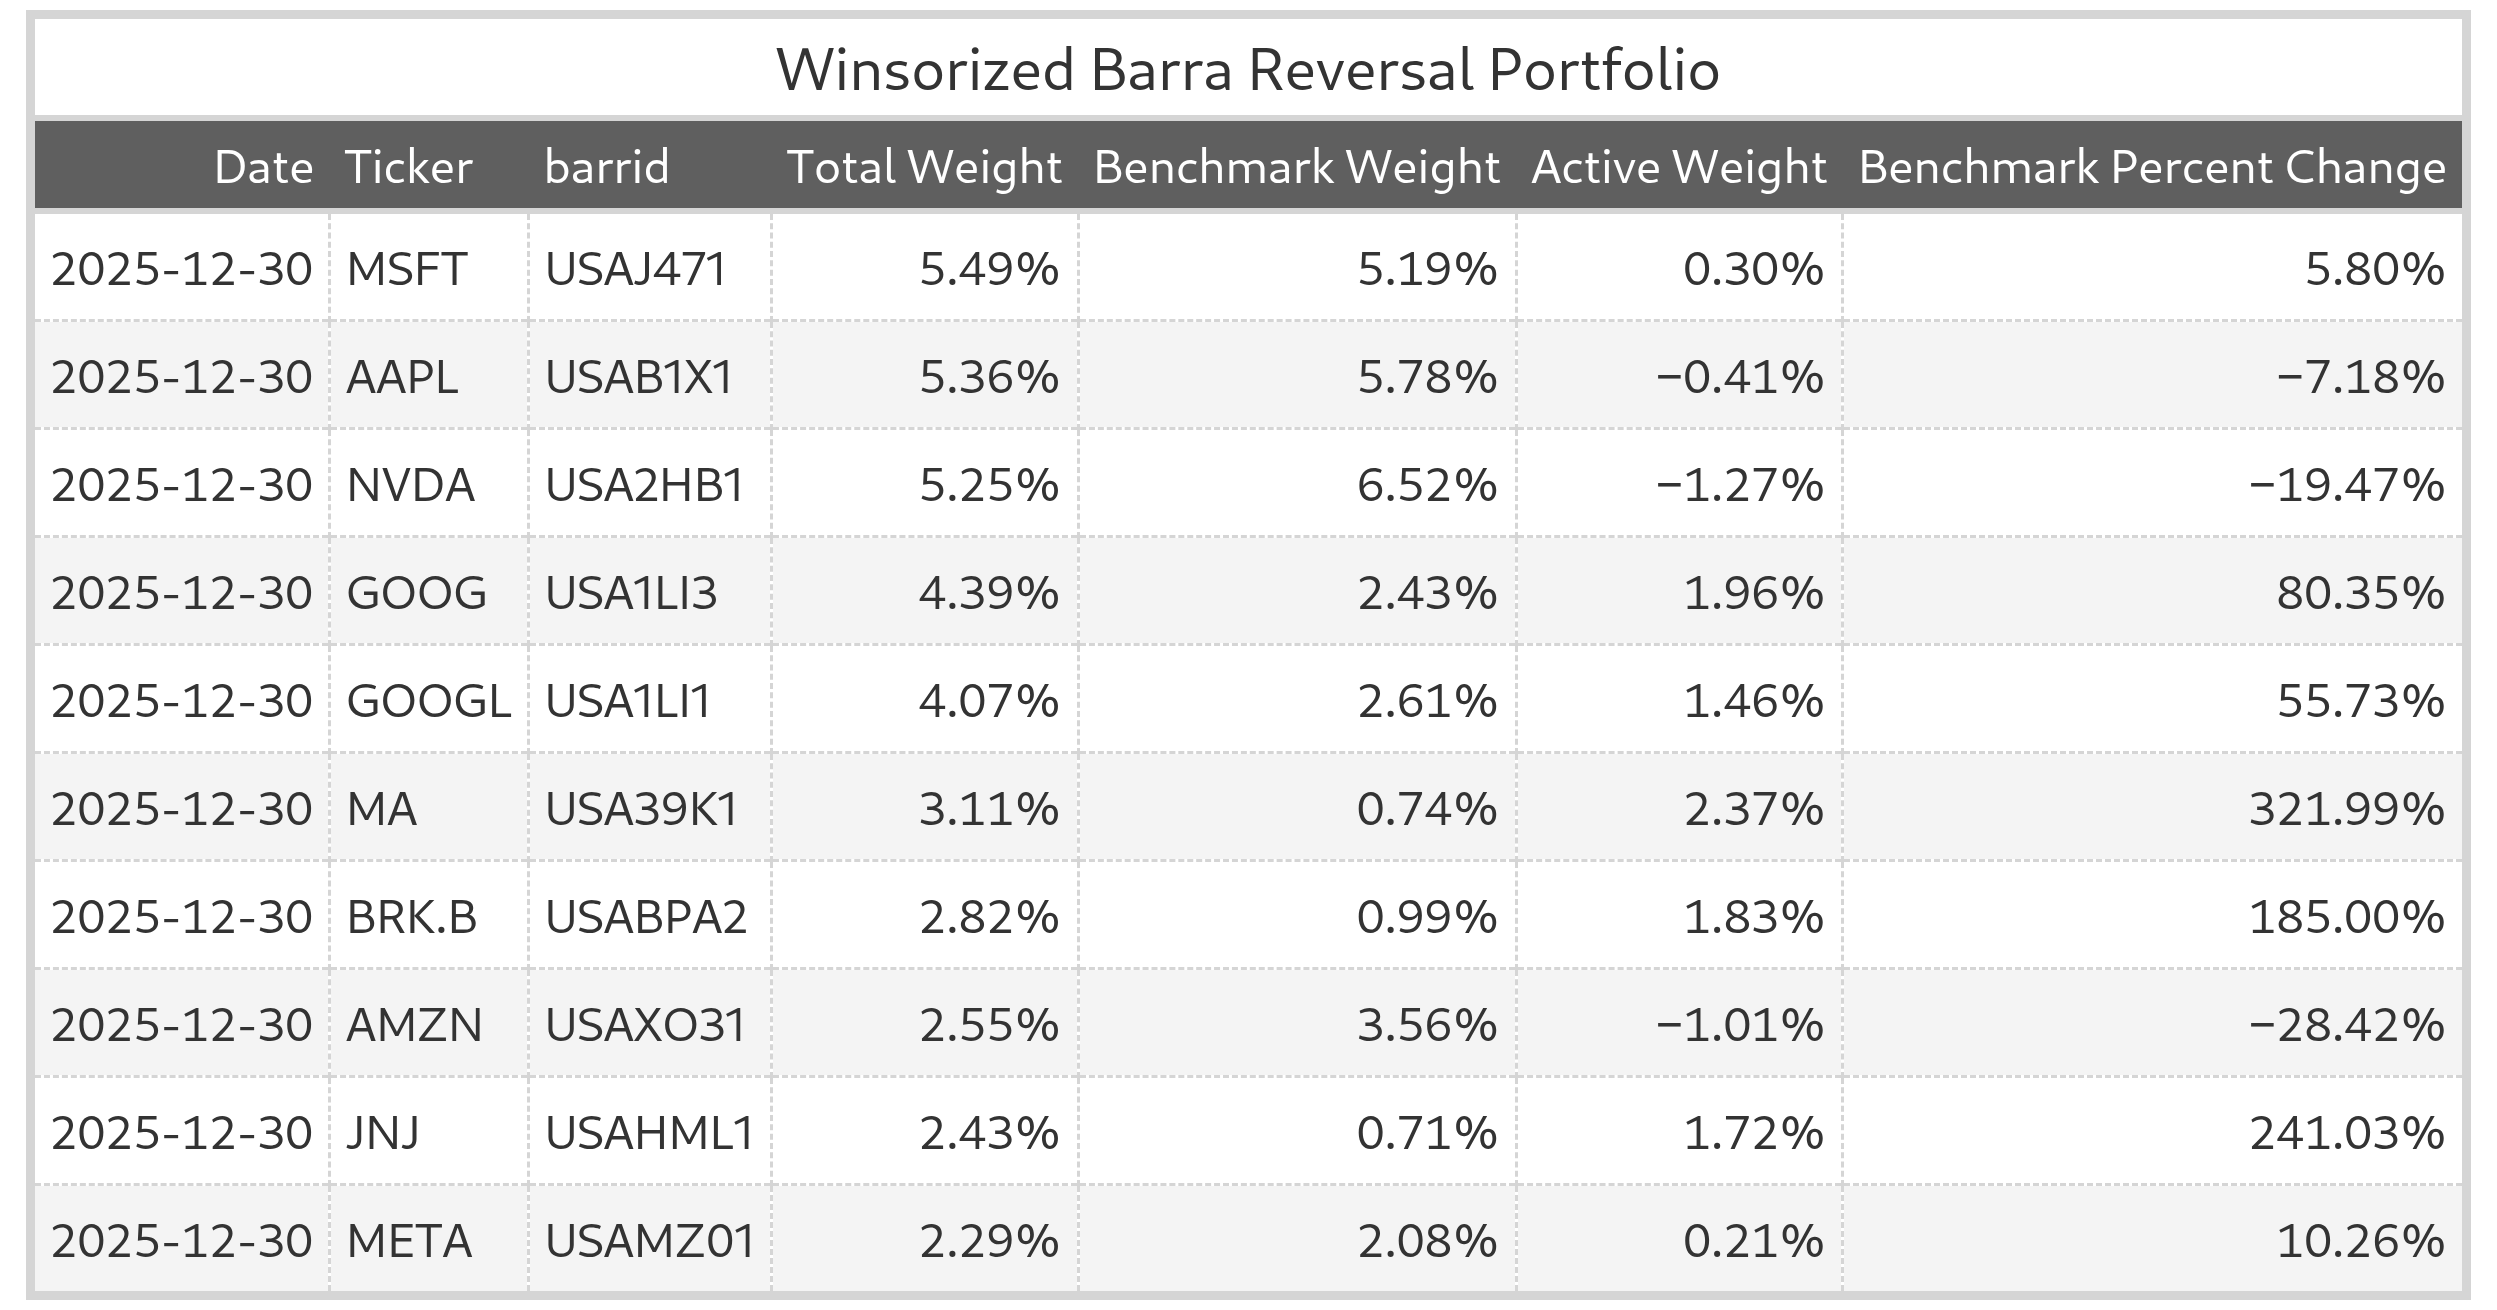
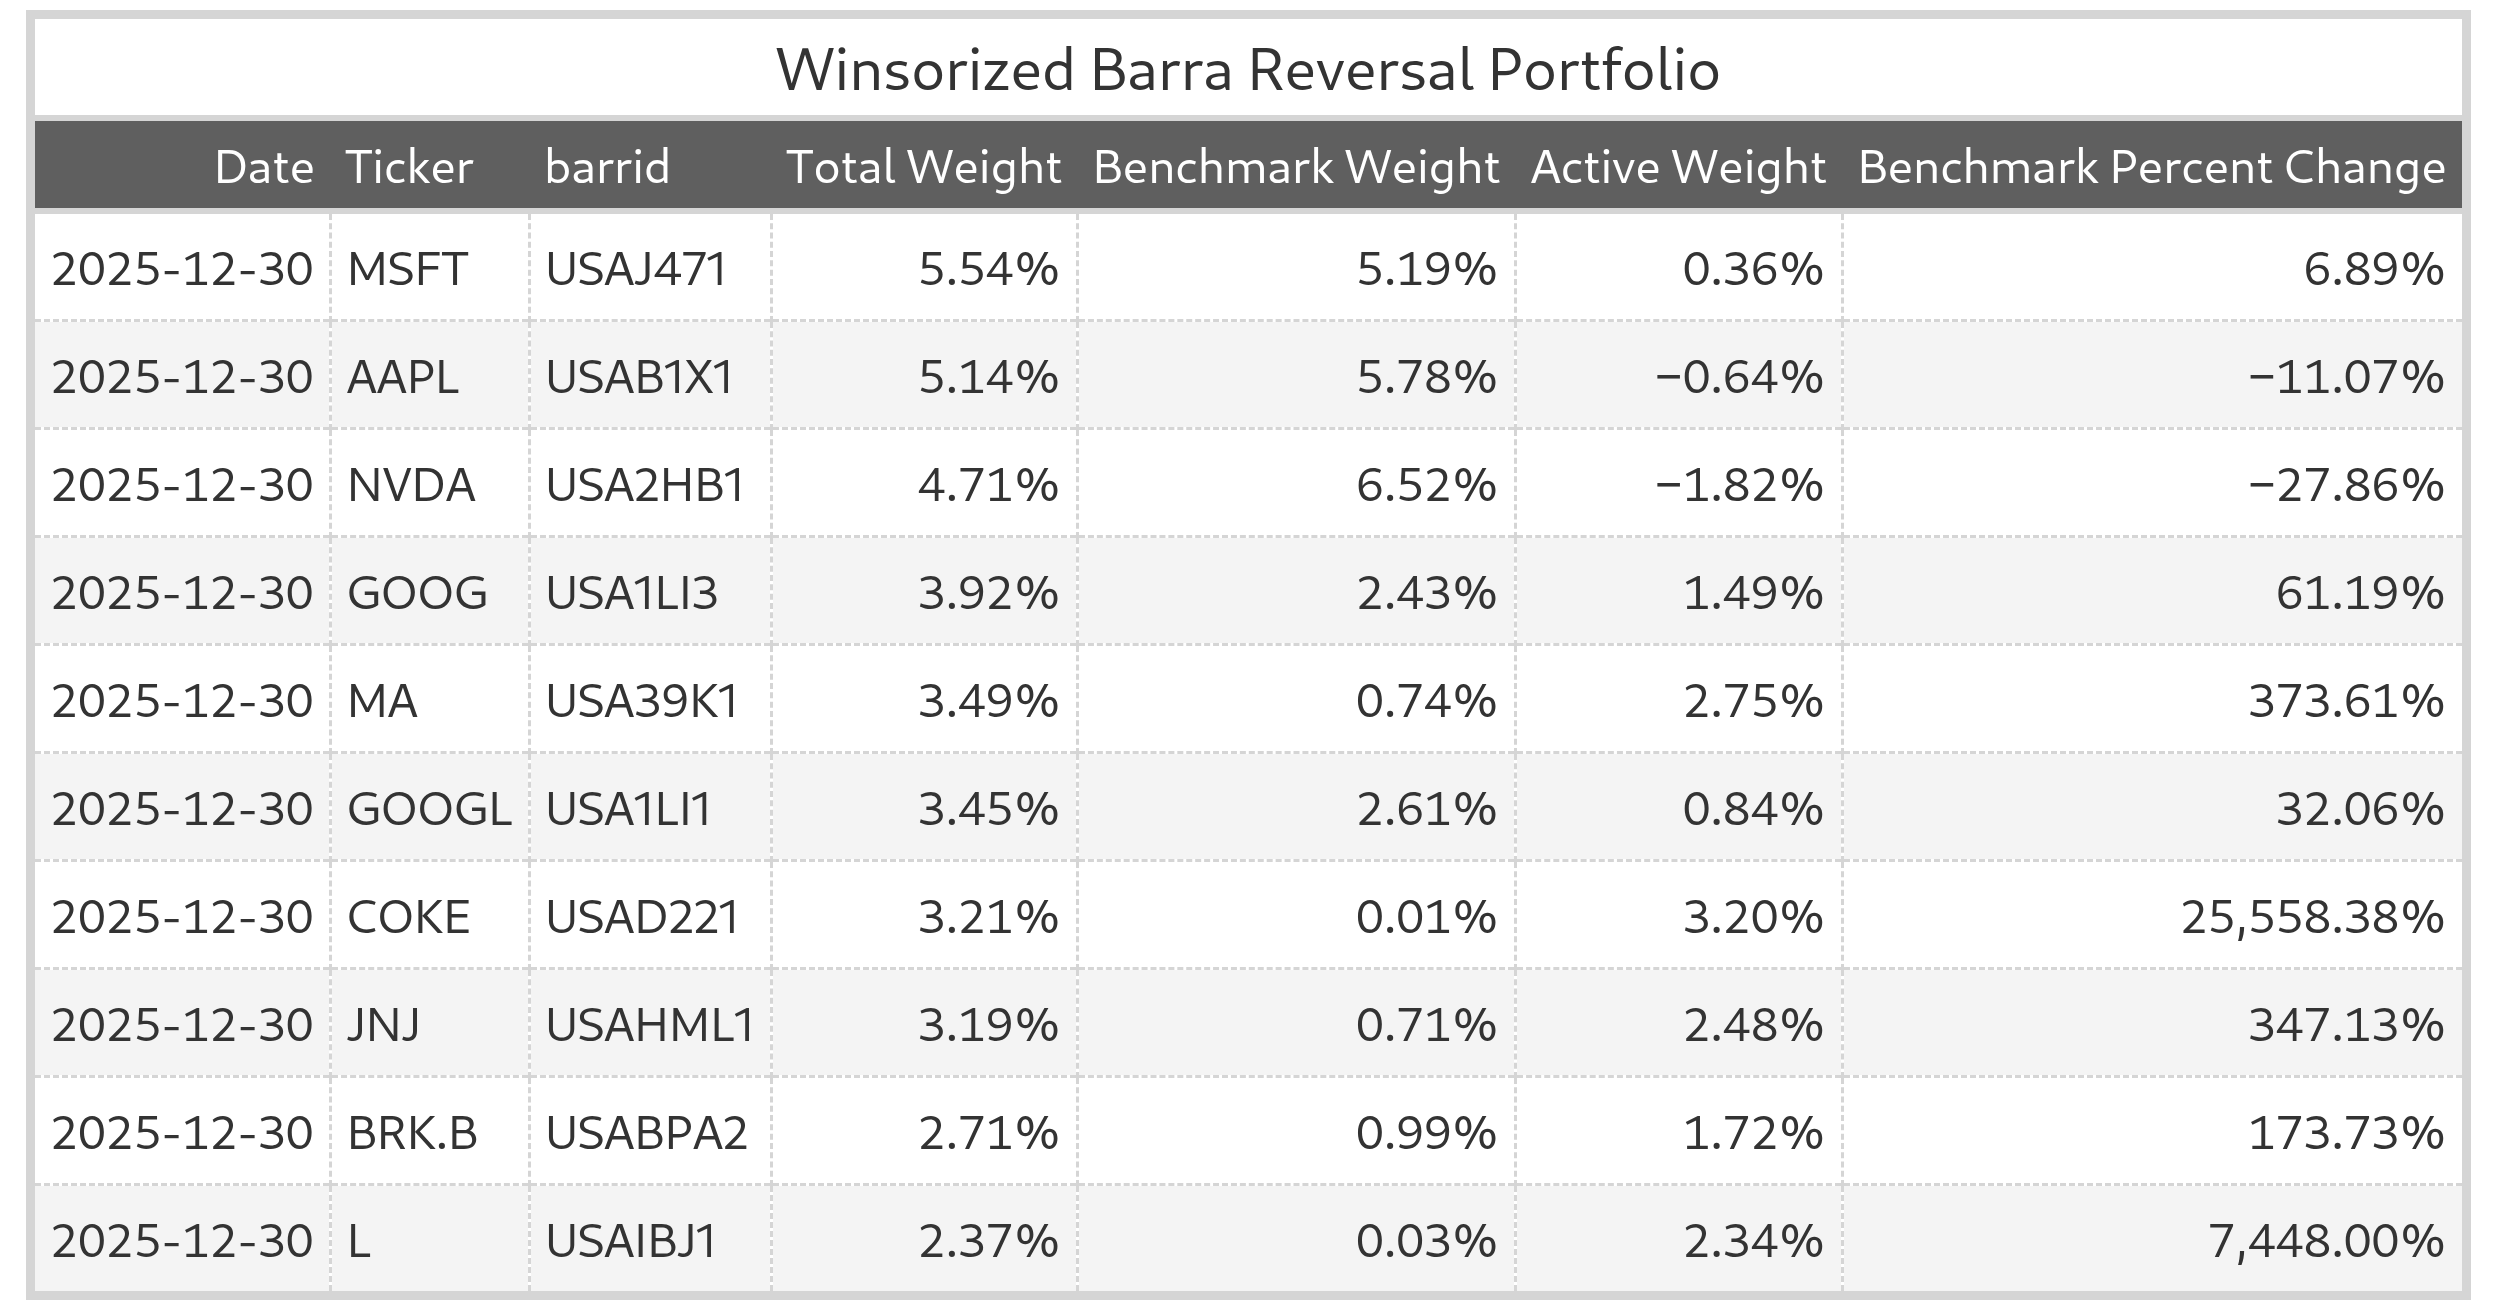
Fixed experiment 6.

diff --git a/research/experiments/experiment_6.py b/research/experiments/experiment_6.py
@@ -1,12 +1,12 @@
 import datetime as dt
+from pathlib import Path
 
+import great_tables as gt
+import numpy as np
 import polars as pl
 import sf_quant.data as sfd
 import sf_quant.optimizer as sfo
 from dotenv import load_dotenv
-import great_tables as gt
-from pathlib import Path
-
 
 # Load environment variables
 load_dotenv()
@@ -18,13 +18,13 @@ price_filter = 5
 signal_name = "barra_reversal_clipped"
 results_folder = Path("results/experiment_6")
 IC = 0.05
-gamma = 10
+gamma = 7
 n_cpus = 8
 constraints = [
     sfo.FullInvestment(),
     sfo.LongOnly(),
     sfo.NoBuyingOnMargin(),
-    sfo.UnitBeta()
+    sfo.UnitBeta(),
 ]
 
 # Create results folder
@@ -67,43 +67,40 @@ filtered = signals.filter(
     pl.col(signal_name).is_not_null(),
     pl.col("predicted_beta").is_not_null(),
     pl.col("specific_risk").is_not_null(),
-    pl.col('date').eq(end)
+    pl.col("date").eq(end),
 )
 
 # Compute scores
-scores = (
-    filtered
-    .select(
-        'date',
-        'barrid',
-        'predicted_beta',
-        'specific_risk',
-        pl.col(signal_name).sub(pl.col(signal_name).mean()).truediv(pl.col(signal_name).std()).over('date').alias('score'),
-    )
+scores = filtered.select(
+    "date",
+    "barrid",
+    "predicted_beta",
+    "specific_risk",
+    pl.col(signal_name)
+    .sub(pl.col(signal_name).mean())
+    .truediv(pl.col(signal_name).std())
+    .over("date")
+    .alias("score"),
 )
 
 # clip the scores to elimate reversal signals that are too strong
-scores = scores.with_columns(
-    pl.col("score").clip(lower_bound=-2.0, upper_bound=2.0)
-)
+scores = scores.with_columns(pl.col("score").clip(lower_bound=-2.0, upper_bound=2.0))
 
 # Compute alphas
 alphas = (
-    scores.with_columns(
-        pl.col('score').mul(IC).mul("specific_risk").alias("alpha")
-    )
+    scores.with_columns(pl.col("score").mul(IC).mul("specific_risk").alias("alpha"))
     .select("date", "barrid", "alpha", "predicted_beta")
     .sort("date", "barrid")
 )
 
 # Set up mean variance optimization
-alphas_np = alphas['alpha'].to_numpy()
-betas_np = alphas['predicted_beta'].to_numpy()
-barrids = alphas['barrid'].to_list()
+alphas_np = alphas["alpha"].to_numpy()
+betas_np = alphas["predicted_beta"].to_numpy()
+barrids = alphas["barrid"].to_list()
 
 # Get covariance matrix
 covariance_matrix = sfd.construct_covariance_matrix(date_=end, barrids=barrids)
-covariance_matrix_np = covariance_matrix.drop('barrid').to_numpy()
+covariance_matrix_np = covariance_matrix.drop("barrid").to_numpy()
 
 # Get optimal weights
 weights = sfo.mve_optimizer(
@@ -112,62 +109,52 @@ weights = sfo.mve_optimizer(
     covariance_matrix=covariance_matrix_np,
     constraints=constraints,
     gamma=gamma,
-    betas=betas_np
+    betas=betas_np,
 )
 
 # Get benchmark weights
-benchmark_weights = (
-    sfd.load_benchmark(
-        start=start,
-        end=end
-    )
-    .filter(
-        pl.col('date').eq(end)
-    )
+benchmark_weights = sfd.load_benchmark(start=start, end=end).filter(
+    pl.col("date").eq(end)
 )
 
 # Get ticker mapping
 tickers = sfd.load_assets_by_date(
-    date_=end,
-    in_universe=True,
-    columns=['barrid', 'ticker']
+    date_=end, in_universe=True, columns=["barrid", "ticker"]
 )
 
 # Compute active weights and pct_change_bmk
 all_weights = (
-    benchmark_weights
-    .rename({'weight': 'bmk_weight'})
-    .join(
-        other=weights.rename({'weight': 'total_weight'}),
-        on=['barrid'],
-        how='left'
-    )
-    .join(
-        other=tickers,
-        on=['barrid'],
-        how='left'
-    )
-    .with_columns(
-        pl.col('total_weight').fill_null(0)
-    )
+    benchmark_weights.rename({"weight": "bmk_weight"})
+    .join(other=weights.rename({"weight": "total_weight"}), on=["barrid"], how="left")
+    .join(other=tickers, on=["barrid"], how="left")
+    .with_columns(pl.col("total_weight").fill_null(0))
     .select(
-        'date',
-        'ticker',
-        'barrid',
-        'total_weight',
-        'bmk_weight',
-        pl.col('total_weight').sub(pl.col('bmk_weight')).alias('active_weight')
+        "date",
+        "ticker",
+        "barrid",
+        "total_weight",
+        "bmk_weight",
+        pl.col("total_weight").sub(pl.col("bmk_weight")).alias("active_weight"),
     )
     .with_columns(
-        pl.col('total_weight').truediv('bmk_weight').sub(1).alias('pct_change_bmk')
+        pl.col("total_weight").truediv("bmk_weight").sub(1).alias("pct_change_bmk")
     )
-    .sort('total_weight', descending=True)
-    .head(10)
+    .sort("total_weight", descending=True)
 )
+
+active_weights_np = all_weights.sort("barrid")["active_weight"].to_numpy()
+barrids = all_weights.sort("barrid")["barrid"].to_list()
+
+# Get covariance matrix
+covariance_matrix = sfd.construct_covariance_matrix(date_=end, barrids=barrids)
+covariance_matrix_np = covariance_matrix.drop("barrid").to_numpy()
+
+active_risk = np.sqrt(active_weights_np @ covariance_matrix_np @ active_weights_np.T)
+print(f"Active Risk: {active_risk * 100:.2}%")
 
 # Create summary table
 table = (
-    gt.GT(all_weights)
+    gt.GT(all_weights.head(10))
     .tab_header(title="Winsorized Barra Reversal Portfolio")
     .cols_label(
         date="Date",
@@ -175,9 +162,11 @@ table = (
         total_weight="Total Weight",
         bmk_weight="Benchmark Weight",
         active_weight="Active Weight",
-        pct_change_bmk="Benchmark Percent Change"
+        pct_change_bmk="Benchmark Percent Change",
     )
-    .fmt_percent(["total_weight", "bmk_weight", "active_weight", "pct_change_bmk"], decimals=2)
+    .fmt_percent(
+        ["total_weight", "bmk_weight", "active_weight", "pct_change_bmk"], decimals=2
+    )
     .opt_stylize(style=4, color="gray")
 )
 
